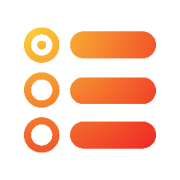
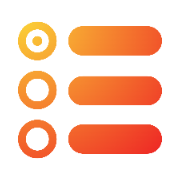
background options

diff --git a/pages/Favicon_Maker/script.js b/pages/Favicon_Maker/script.js
@@ -26,6 +26,14 @@ document.addEventListener('DOMContentLoaded', () => {
     const paddingSmallIconsCheckbox = document.getElementById('padding-small-icons');
     const paddingPreviewIcon = document.getElementById('padding-preview-icon');
 
+    // --- Background Elements ---
+    const bgTransparentToggle = document.getElementById('bg-transparent-toggle');
+    const bgColorPicker = document.getElementById('bg-color-picker');
+    const bgColorCode = document.getElementById('bg-color-code');
+    const bgApplyAllCheckbox = document.getElementById('bg-apply-all');
+    const bgColorGroup = document.getElementById('bg-color-group');
+    const bgAllGroup = document.getElementById('bg-all-group');
+
     const generateBtn = document.getElementById('generate-btn');
     const resultsCard = document.getElementById('results-card');
     const resultsContent = document.getElementById('results-content');
@@ -64,6 +72,29 @@ document.addEventListener('DOMContentLoaded', () => {
     paddingSlider.addEventListener('input', () => {
         paddingValue.textContent = paddingSlider.value + '%';
         updatePaddingPreview();
+    });
+
+    // Background Controls Listeners
+    bgTransparentToggle.addEventListener('change', () => {
+        const isTransparent = bgTransparentToggle.checked;
+        if (isTransparent) {
+            bgColorGroup.style.opacity = '0.5';
+            bgColorGroup.style.pointerEvents = 'none';
+            bgAllGroup.style.opacity = '0.5';
+            bgAllGroup.style.pointerEvents = 'none';
+            updatePaddingPreviewWrapperBg('transparent');
+        } else {
+            bgColorGroup.style.opacity = '1';
+            bgColorGroup.style.pointerEvents = 'auto';
+            bgAllGroup.style.opacity = '1';
+            bgAllGroup.style.pointerEvents = 'auto';
+            updatePaddingPreviewWrapperBg(bgColorPicker.value);
+        }
+    });
+
+    bgColorPicker.addEventListener('input', () => {
+        bgColorCode.textContent = bgColorPicker.value;
+        updatePaddingPreviewWrapperBg(bgColorPicker.value);
     });
 
     generateBtn.addEventListener('click', handleFinalGeneration);
@@ -438,7 +469,8 @@ document.addEventListener('DOMContentLoaded', () => {
 
                 // Apply padding logic
                 // Apple Touch (180) and Android (192, 512) -> Default to user padding
-                if ([180, 192, 512].includes(size)) {
+                const isTouchIcon = [180, 192, 512].includes(size);
+                if (isTouchIcon) {
                     paddingPercent = userPadding;
                 } else {
                     // Small icons (16, 32) -> Checkbox dependent
@@ -447,7 +479,16 @@ document.addEventListener('DOMContentLoaded', () => {
                     }
                 }
 
-                imageBlobs[size] = await convertToSquare(compressedFile, size, paddingPercent);
+                // Determine background color
+                let backgroundColor = null; // null triggers transparency in convertToSquare
+                if (!bgTransparentToggle.checked) {
+                    // Color mode active
+                    if (isTouchIcon || bgApplyAllCheckbox.checked) {
+                        backgroundColor = bgColorPicker.value;
+                    }
+                }
+
+                imageBlobs[size] = await convertToSquare(compressedFile, size, paddingPercent, backgroundColor);
             }
 
             updateStatus('Creating ZIP file...');
@@ -543,12 +584,18 @@ document.addEventListener('DOMContentLoaded', () => {
     function getImageDataFromSrc(imgSrc) { return new Promise((resolve, reject) => { const img = new Image(); img.crossOrigin = "Anonymous"; img.onload = () => { const canvas = document.createElement('canvas'); canvas.width = img.width; canvas.height = img.height; const ctx = canvas.getContext('2d'); ctx.drawImage(img, 0, 0); resolve(ctx.getImageData(0, 0, img.width, img.height)); }; img.onerror = reject; img.src = imgSrc; }); }
     function traceImageDataToSvg(imageData, palette, settings) { const options = { pal: palette, numberofcolors: palette.length, ltres: settings.detail, qtres: settings.detail, roundcoords: settings.smoothing }; let svgString = ImageTracer.imagedataToSVG(imageData, options); const viewBox = `viewBox="0 0 ${imageData.width} ${imageData.height}"`; return svgString.replace('<svg ', `<svg ${viewBox} `); }
 
-    function convertToSquare(blob, size, paddingPercent = 0) {
+    function convertToSquare(blob, size, paddingPercent = 0, backgroundColor = null) {
         return new Promise((resolve, reject) => {
             const canvas = document.createElement('canvas');
             canvas.width = size;
             canvas.height = size;
             const ctx = canvas.getContext('2d');
+
+            if (backgroundColor) {
+                ctx.fillStyle = backgroundColor;
+                ctx.fillRect(0, 0, size, size);
+            }
+
             const img = new Image();
             img.onload = () => {
                 const availableSize = size * (1 - (paddingPercent * 2));
@@ -623,6 +670,7 @@ document.addEventListener('DOMContentLoaded', () => {
 
         // Reset/Hide preview
         paddingPreviewIcon.style.backgroundImage = 'none';
+        updatePaddingPreviewWrapperBg('transparent');
 
         svgControlsCard.classList.add('hidden');
         resultsCard.classList.add('hidden');
@@ -633,5 +681,15 @@ document.addEventListener('DOMContentLoaded', () => {
         resultsContent.innerHTML = '';
         generateStatus.textContent = '';
         generateBtn.textContent = 'Generate All Files';
+    }
+
+    function updatePaddingPreviewWrapperBg(color) {
+        // The preview box is .padding-preview-box
+        const box = document.querySelector('.padding-preview-box');
+        if (box) {
+            box.style.backgroundColor = (color === 'transparent') ? '#000' : color;
+            // If transparent, we revert to default black or checkerboard. 
+            // The CSS default for .padding-preview-box is black (#000).
+        }
     }
 });

diff --git a/pages/Favicon_Maker/index.html b/pages/Favicon_Maker/index.html
@@ -158,10 +158,48 @@
 
                     <!-- Small Icons Toggle -->
                     <div class="control-group" style="justify-content: space-between;">
-                        <label for="padding-small-icons" style="flex: 1;">Apply to small icons</label>
+                        <label for="padding-small-icons" style="flex: 1;">Apply padding to small icons</label>
                         <div class="toggle-switch-wrapper">
                             <input type="checkbox" id="padding-small-icons" class="toggle-input">
                             <label for="padding-small-icons" class="toggle-label"></label>
+                        </div>
+                    </div>
+
+                    <!-- Background Color Controls -->
+                    <div class="divider"><span>Background Options</span></div>
+
+                    <div style="display: grid; grid-template-columns: 1fr 1fr; gap: 1rem; align-items: start;">
+                        <!-- Transparent Toggle -->
+                        <div class="control-group"
+                            style="grid-template-columns: 1fr 40px; gap: 0.5rem; margin-bottom: 0;">
+                            <label for="bg-transparent-toggle" style="font-size: 0.9rem;">Transparent</label>
+                            <div class="toggle-switch-wrapper"
+                                style="transform: scale(0.8); transform-origin: right center;">
+                                <input type="checkbox" id="bg-transparent-toggle" class="toggle-input" checked>
+                                <label for="bg-transparent-toggle" class="toggle-label"></label>
+                            </div>
+                        </div>
+
+                        <!-- Apply All Toggle -->
+                        <div class="control-group" id="bg-all-group"
+                            style="grid-template-columns: 1fr 40px; gap: 0.5rem; margin-bottom: 0; opacity: 0.5; pointer-events: none;">
+                            <label for="bg-apply-all" style="font-size: 0.9rem;">Apply to all</label>
+                            <div class="toggle-switch-wrapper"
+                                style="transform: scale(0.8); transform-origin: right center;">
+                                <input type="checkbox" id="bg-apply-all" class="toggle-input">
+                                <label for="bg-apply-all" class="toggle-label"></label>
+                            </div>
+                        </div>
+
+                        <!-- Color Picker (Full Width below) -->
+                        <div class="control-group" id="bg-color-group"
+                            style="grid-column: 1 / -1; grid-template-columns: auto 1fr; gap: 1rem; opacity: 0.5; pointer-events: none; justify-content: start;">
+                            <label for="bg-color-picker" style="font-size: 0.9rem;">Color:</label>
+                            <div style="display: flex; gap: 10px; align-items: center;">
+                                <input type="color" id="bg-color-picker" value="#ffffff">
+                                <span id="bg-color-code"
+                                    style="font-size: 0.9rem; color: var(--text-muted);">#ffffff</span>
+                            </div>
                         </div>
                     </div>
                 </div>

diff --git a/pages/Favicon_Maker/style.css b/pages/Favicon_Maker/style.css
@@ -639,3 +639,28 @@ button:disabled {
     background-color: white;
     box-shadow: 0 2px 4px rgba(0, 0, 0, 0.2);
 }
+
+/* --- Color Picker Customization --- */
+input[type="color"] {
+    -webkit-appearance: none;
+    appearance: none;
+    border: none;
+    width: 32px;
+    height: 32px;
+    flex-shrink: 0;
+    border-radius: 50%;
+    overflow: hidden;
+    padding: 0;
+    cursor: pointer;
+    background: none;
+}
+
+input[type="color"]::-webkit-color-swatch-wrapper {
+    padding: 0;
+}
+
+input[type="color"]::-webkit-color-swatch {
+    border: 2px solid var(--glass-border);
+    border-radius: 50%;
+    box-shadow: 0 2px 5px rgba(0, 0, 0, 0.2);
+}
